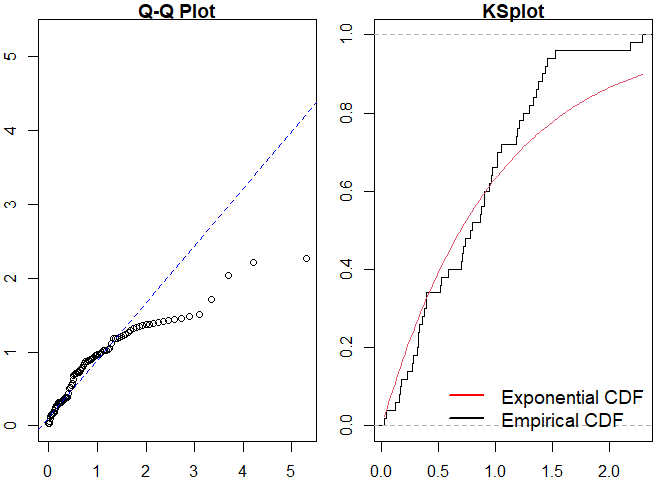
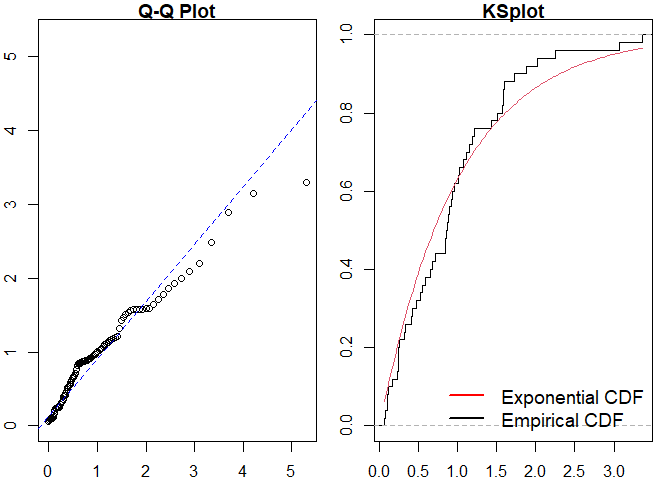
update readme to link to contributing file

diff --git a/README.md b/README.md
@@ -13,8 +13,6 @@ status](https://www.r-pkg.org/badges/version/ppdiag)](https://CRAN.R-project.org
 stable](https://img.shields.io/badge/lifecycle-stable-brightgreen.svg)](https://lifecycle.r-lib.org/articles/stages.html)
 [![Codecov test
 coverage](https://codecov.io/gh/OwenWard/ppdiag/branch/main/graph/badge.svg)](https://codecov.io/gh/OwenWard/ppdiag?branch=main)
-[![Contributor 
-Covenant](https://img.shields.io/badge/Contributor%20Covenant-1.0-4baaaa.svg)](CODE_OF_CONDUCT.md)
 <!-- badges: end -->
 
 `ppdiag` is an `R` package which provides a collection of tools which
@@ -56,17 +54,14 @@ library(ppdiag)
 hp_obj <- pp_hp(lambda0 = 0.2, alpha = 0.35, beta = 0.8)
 sim_hp <- pp_simulate(hp_obj, end = 200)
 sim_hp
-#>  [1]   0.9028774   2.1440211  12.5023753  13.1117594  15.2125103  16.4468785
-#>  [7]  22.0673950  28.0077200  28.7309437  28.8399044  29.8898289  31.2596296
-#> [13]  32.9789068  33.0952675  47.3363303  47.4550222  52.2806143  52.7807790
-#> [19]  53.8471582  70.6502357  71.2346665  71.9704604  74.2900289  77.9300598
-#> [25]  86.2557153  86.9531752  92.3820592 102.7484174 103.2037018 103.2931602
-#> [31] 103.6600985 106.2132004 110.6646722 114.5946863 116.0299836 116.1304621
-#> [37] 116.2030573 116.2219153 116.5640912 116.5834268 116.7923988 117.1433428
-#> [43] 117.3212496 118.2355304 122.7278904 123.5293785 123.9301859 126.7675328
-#> [49] 136.4601124 162.4423253 162.5968625 162.9340964 165.1812875 176.5825227
-#> [55] 180.7287522 185.5611023 185.7220408 186.5938809 190.1311457 192.9218856
-#> [61] 193.2152954 196.3592700
+#>  [1]   1.251803   2.585288  15.660522  16.424361  19.852963  20.115283
+#>  [7]  36.749777  36.813473  54.757570  56.583400  59.564868  60.272463
+#> [13]  60.884895  84.771774  88.260163  88.423628  89.601849  90.061292
+#> [19]  90.370334  90.621778  90.694123  92.143117  93.395489  93.687936
+#> [25]  94.588896 113.160732 121.785596 122.646369 122.770419 123.035607
+#> [31] 125.550267 125.561861 130.788192 133.921184 137.518573 139.761132
+#> [37] 145.099685 155.317533 161.611297 176.427144 178.593037 178.923897
+#> [43] 179.170059 184.217712 184.422784 190.509601
 ```
 
 We can readily evaluate the fit of a homogeneous Poisson process to this
@@ -75,24 +70,9 @@ data.
 ``` r
 est_hpp <- fithpp(sim_hp)
 est_hpp
-#> $lambda
-#> [1] 0.3157478
-#> 
-#> $events
-#>  [1]   0.9028774   2.1440211  12.5023753  13.1117594  15.2125103  16.4468785
-#>  [7]  22.0673950  28.0077200  28.7309437  28.8399044  29.8898289  31.2596296
-#> [13]  32.9789068  33.0952675  47.3363303  47.4550222  52.2806143  52.7807790
-#> [19]  53.8471582  70.6502357  71.2346665  71.9704604  74.2900289  77.9300598
-#> [25]  86.2557153  86.9531752  92.3820592 102.7484174 103.2037018 103.2931602
-#> [31] 103.6600985 106.2132004 110.6646722 114.5946863 116.0299836 116.1304621
-#> [37] 116.2030573 116.2219153 116.5640912 116.5834268 116.7923988 117.1433428
-#> [43] 117.3212496 118.2355304 122.7278904 123.5293785 123.9301859 126.7675328
-#> [49] 136.4601124 162.4423253 162.5968625 162.9340964 165.1812875 176.5825227
-#> [55] 180.7287522 185.5611023 185.7220408 186.5938809 190.1311457 192.9218856
-#> [61] 193.2152954 196.3592700
-#> 
-#> attr(,"class")
-#> [1] "hpp"
+#> Homogeneous Poisson Process 
+#> lambda  
+#> events 1.251803 2.585288 15.66052 16.42436 19.85296 20.11528 36.74978 36.81347 54.75757 56.5834 59.56487 60.27246 60.8849 84.77177 88.26016 88.42363 89.60185 90.06129 90.37033 90.62178 90.69412 92.14312 93.39549 93.68794 94.5889 113.1607 121.7856 122.6464 122.7704 123.0356 125.5503 125.5619 130.7882 133.9212 137.5186 139.7611 145.0997 155.3175 161.6113 176.4271 178.593 178.9239 179.1701 184.2177 184.4228 190.5096
 
 pp_diag(est_hpp, events = sim_hp)
 ```
@@ -106,7 +86,7 @@ pp_diag(est_hpp, events = sim_hp)
     #>  One-sample Kolmogorov-Smirnov test
     #> 
     #> data:  r
-    #> D = 0.21699, p-value = 0.004829
+    #> D = 0.22652, p-value = 0.01481
     #> alternative hypothesis: two-sided
 
 ``` r
@@ -116,13 +96,13 @@ pp_diag(hp_est, events = sim_hp)
 
 <img src="man/figures/README-fit_hp-1.png" width="75%" />
 
-    #> Raw residual: -0.004365144
-    #> Pearson residual: -0.2098432
+    #> Raw residual: -0.00519921
+    #> Pearson residual: 0.06798623
     #> 
     #>  One-sample Kolmogorov-Smirnov test
     #> 
     #> data:  r
-    #> D = 0.064756, p-value = 0.9422
+    #> D = 0.10346, p-value = 0.67
     #> alternative hypothesis: two-sided
 
 ## Markov Modulated Hawkes Process Example
@@ -141,31 +121,13 @@ mmhp_obj <- pp_mmhp(Q, delta = c(1 / 3, 2 / 3),
           beta = 0.8)
 
 mmhp_obj
-#> $Q
-#>      [,1] [,2]
-#> [1,] -0.2  0.2
-#> [2,]  0.1 -0.1
-#> 
-#> $delta
-#> [1] 0.3333333 0.6666667
-#> 
-#> $events
-#> NULL
-#> 
-#> $lambda0
-#> [1] 0.2
-#> 
-#> $lambda1
-#> [1] 0.75
-#> 
-#> $alpha
-#> [1] 0.4
-#> 
-#> $beta
-#> [1] 0.8
-#> 
-#> attr(,"class")
-#> [1] "mmhp"
+#> Markov Modulated Hawkes Process 
+#> lambda0  0.2 
+#> lambda1  0.75 
+#> alpha  0.4 
+#> beta  0.8 
+#> Q  -0.2 0.1 0.2 -0.1 
+#> delta 0.3333333 0.6666667
 mmhp_events <- pp_simulate(mmhp_obj, n = 50)
 ```
 
@@ -181,12 +143,12 @@ pp_diag(est_hpp,mmhp_events$events)
 
     #> 
     #> Raw residual: -1
-    #> Pearson residual: -1.450621
+    #> Pearson residual: -1.684459
     #> 
     #>  One-sample Kolmogorov-Smirnov test
     #> 
     #> data:  r
-    #> D = 0.206, p-value = 0.02446
+    #> D = 0.27786, p-value = 0.0006626
     #> alternative hypothesis: two-sided
 
 Similarly for a Hawkes process.
@@ -198,13 +160,13 @@ pp_diag(est_hp,mmhp_events$events)
 
 <img src="man/figures/README-fit_hp_to_mmhp-1.png" width="75%" />
 
-    #> Raw residual: -0.6342256
-    #> Pearson residual: -1.830059
+    #> Raw residual: -0.6181052
+    #> Pearson residual: -2.221529
     #> 
     #>  One-sample Kolmogorov-Smirnov test
     #> 
     #> data:  r
-    #> D = 0.093848, p-value = 0.7352
+    #> D = 0.078371, p-value = 0.8949
     #> alternative hypothesis: two-sided
 
 We can then compare to the true point process model.
@@ -215,13 +177,13 @@ pp_diag(mmhp_obj, mmhp_events$events)
 
 <img src="man/figures/README-fit_mmhp-1.png" width="75%" />
 
-    #> Raw residual: 13.07489
-    #> Pearson residual: 21.01997
+    #> Raw residual: 5.381804
+    #> Pearson residual: 2.85359
     #> 
     #>  One-sample Kolmogorov-Smirnov test
     #> 
     #> data:  r
-    #> D = 0.17639, p-value = 0.07852
+    #> D = 0.12924, p-value = 0.344
     #> alternative hypothesis: two-sided
 
 # Getting help and contributing
@@ -229,7 +191,10 @@ pp_diag(mmhp_obj, mmhp_events$events)
 Please file any issues
 [here](https://github.com/OwenWard/ppdiag/issues). Similarly, we would
 be delighted if anyone would like to contribute to this package (such as
-adding other point processes, kernel functions). Feel free to reach out.
+adding other point processes, kernel functions). Feel free to take a
+look
+[here](https://github.com/OwenWard/ppdiag/blob/main/CONTRIBUTING.md) and
+reach out with any questions.
 
 # References
 
